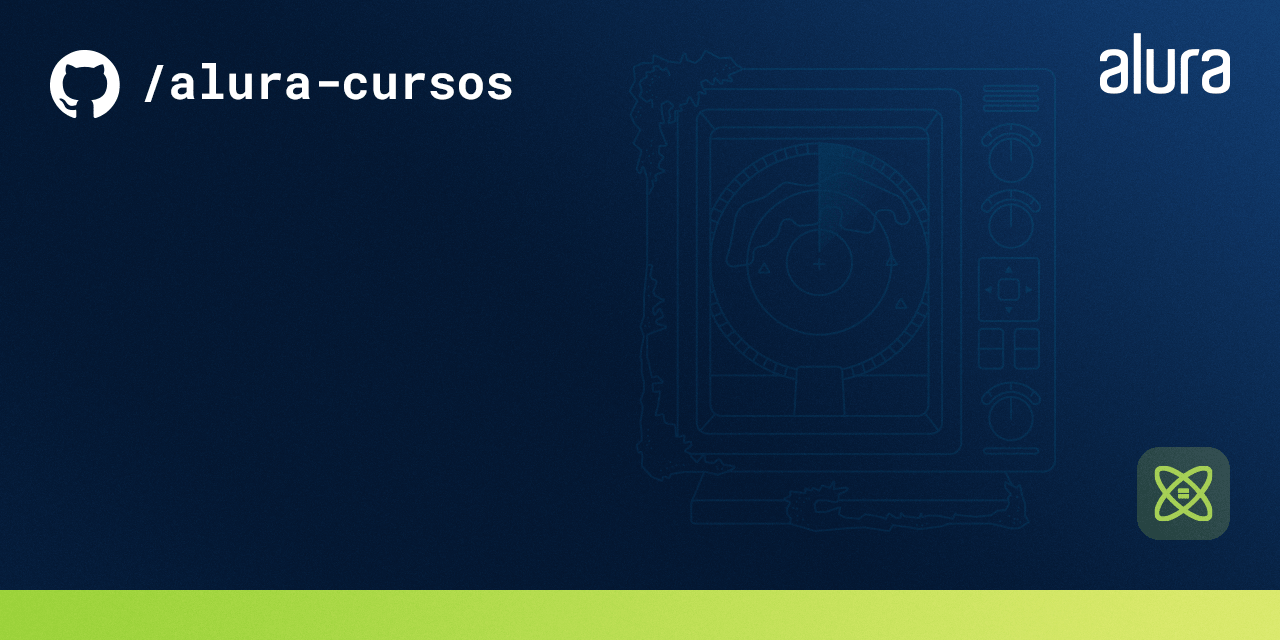
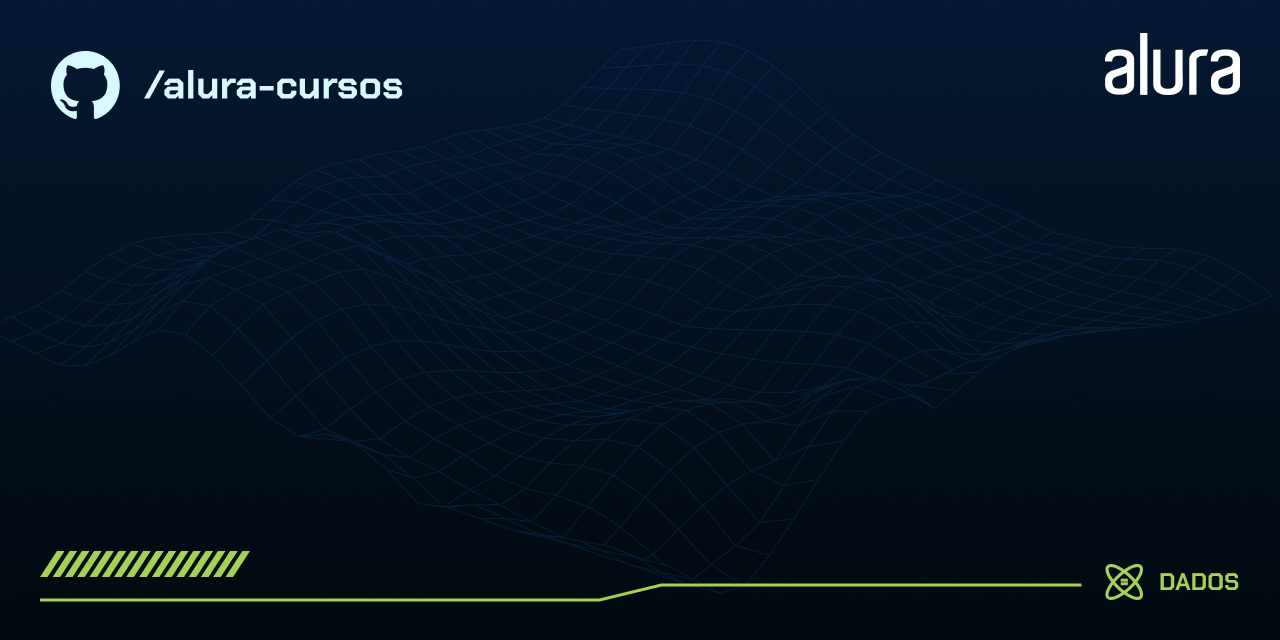
atualização das capas e cores

diff --git a/src/data/escolas.ts b/src/data/escolas.ts
@@ -9,37 +9,37 @@ export const escolas = [
     id: 2,
     nome: 'Front-end',
     imagem: 'front-end.png',
-    colorTitle: '#6BD1FF'
+    colorTitle: '#82CEF9'
   },
   {
     id: 3,
     nome: 'Programação',
     imagem: 'programacao.png',
-    colorTitle: '#3BDD98'
+    colorTitle: '#57C378'
   },
   {
     id: 4,
     nome: 'UX Design',
     imagem: 'ux-design.png',
-    colorTitle: '#DB65D1'
+    colorTitle: '#DC6EBE'
   },
   {
     id: 5,
     nome: 'DevOps',
     imagem: 'dev-ops.png',
-    colorTitle: '#F97594'
+    colorTitle: '#E06A69'
   },
   {
     id: 6,
     nome: 'Inovação e gestão',
     imagem: 'inovacao-gestao.png',
-    colorTitle: '#FBAB45'
+    colorTitle: '#FE8A2A'
   },
   {
     id: 7,
     nome: 'Data Science',
     imagem: 'data-science.png',
-    colorTitle: '#D2E665'
+    colorTitle: '#A6D056'
   },
   {
     id: 8,

diff --git a/src/styles/Fiap.module.css b/src/styles/Fiap.module.css
@@ -4,7 +4,7 @@
   justify-content: center;
   align-items: center;
   min-height: 100vh;
-  weight: 100%;
+  width: 100%;
   gap: 2rem;
   padding: 1rem;
   background: linear-gradient(to bottom, #041834, #0A2E5B, #14437D);

diff --git a/src/styles/GrupoEstudos.module.css b/src/styles/GrupoEstudos.module.css
@@ -4,7 +4,7 @@
   justify-content: center;
   align-items: center;
   min-height: 100vh;
-  weight: 100%;
+  width: 100%;
   gap: 2rem;
   padding: 1rem;
   background: linear-gradient(to bottom, #041834, #0A2E5B, #14437D);

diff --git a/src/styles/Github.module.css b/src/styles/Github.module.css
@@ -26,7 +26,7 @@
   margin: 0;
   
   position: absolute;
-  bottom: 80px;
+  bottom: 100px;
   left: 40px;
   
 }
